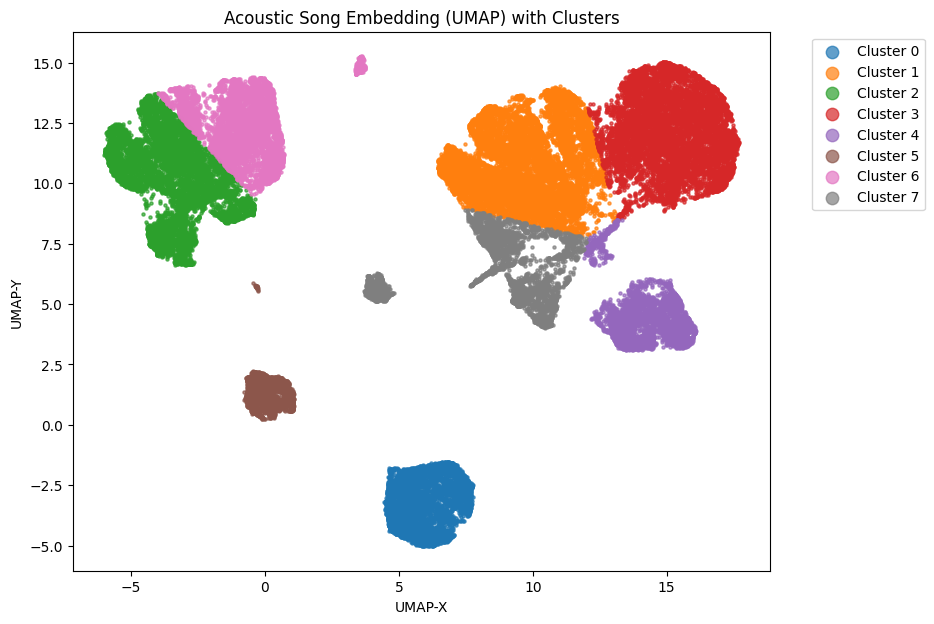
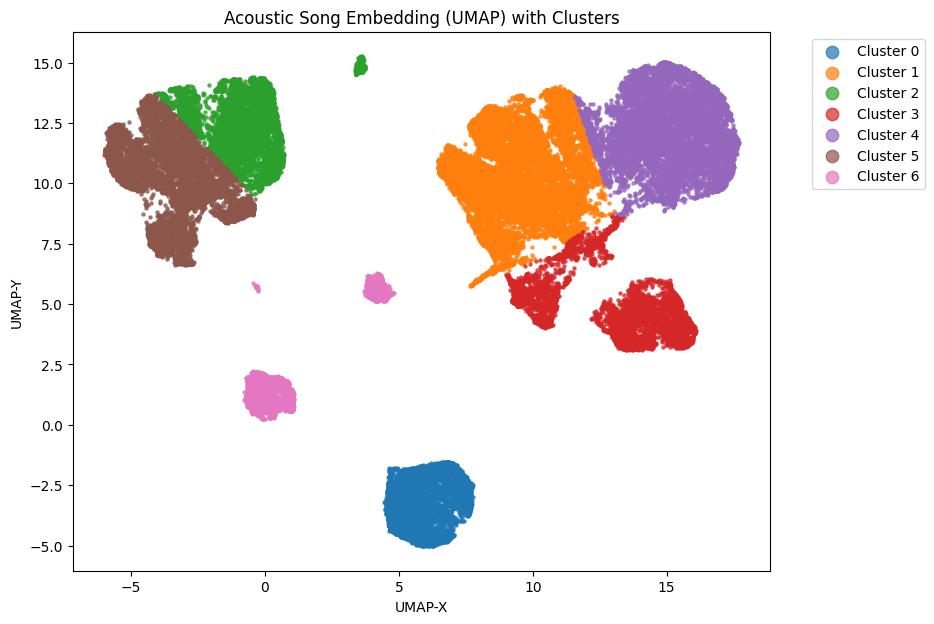
troubleshooted

diff --git a/msd_py3/feature_pipeline.py b/msd_py3/feature_pipeline.py
@@ -6,9 +6,9 @@ import numpy as np
 import pandas as pd
 from tqdm import tqdm
 from sklearn.preprocessing import StandardScaler
-import umap
 import hdbscan
 from ripser import ripser
+import umap
 from persim import bottleneck
 import warnings
 
@@ -17,9 +17,9 @@ warnings.filterwarnings("ignore", message="dgm.*non-finite death", module="persi
 
 # ---------- CONFIG ----------
 MSD_H5_DIR      = os.environ.get('MSD_H5_DIR', './MillionSongSubset')
-MSD_SUMMARY_FILE = os.environ.get('MSD_SUMMARY_FILE', None)
-TASTE_TRIPLETS  = os.environ.get('TASTE_TRIPLETS', '/path/to/train_triplets.txt')
-SAMPLE_SONGS    = int(os.environ.get('SAMPLE_SONGS', '10000'))
+MSD_SUMMARY_FILE = os.environ.get('MSD_SUMMARY_FILE', './msd_summary_file.h5')
+TASTE_TRIPLETS  = os.environ.get('TASTE_TRIPLETS', './train_triplets.txt')
+SAMPLE_SONGS    = int(os.environ.get('SAMPLE_SONGS', '1000'))
 TDA_SUBSAMPLE   = int(os.environ.get('TDA_SUBSAMPLE', '1200'))
 BN_MAX_POINTS   = int(os.environ.get('BN_MAX_POINTS', '800'))
 
@@ -255,40 +255,32 @@ def pairwise_dist(X):
     D = np.sqrt(D2, dtype=np.float32)
     return D
 
-def shortest_path_dist(n, edges, weight_col='w'):
-    """All-pairs shortest paths on undirected weighted graph; safe fallback."""
+def shortest_path_dist(n, edges):
     import heapq
-    if not edges:
-        D = np.ones((n, n), dtype=np.float32); np.fill_diagonal(D, 0.0); return D
 
+    # adjacency list
     adj = [[] for _ in range(n)]
     for a, b, w in edges:
-        d = 1.0 / max(1.0, float(w))
-        adj[a].append((b, d)); adj[b].append((a, d))
+        d = 1.0 / float(w)
+        adj[a].append((b, d))
+        adj[b].append((a, d))
 
-    INF = 1e12
-    D = np.full((n, n), INF, dtype=np.float32)
+    INF = np.inf
+    D = np.full((n, n), INF, dtype=np.float64)
+
     for s in range(n):
-        D[s,s] = 0.0
+        D[s, s] = 0.0
         pq = [(0.0, s)]
         while pq:
-            d,u = heapq.heappop(pq)
-            if d > D[s,u]:
+            d, u = heapq.heappop(pq)
+            if d > D[s, u]:
                 continue
-            for v,w in adj[u]:
+            for v, w in adj[u]:
                 nd = d + w
-                if nd < D[s,v]:
-                    D[s,v] = nd
+                if nd < D[s, v]:
+                    D[s, v] = nd
                     heapq.heappush(pq, (nd, v))
 
-    finite_mask = np.isfinite(D)
-    diag = np.eye(n, dtype=bool)
-    finite_off = D[finite_mask & ~diag]
-    if finite_off.size == 0:
-        D[:] = 1.0; np.fill_diagonal(D, 0.0)
-    else:
-        cap = float(finite_off.max())
-        D[~finite_mask] = cap
     return D
 
 def vietoris_rips_persistence(D):
@@ -359,7 +351,7 @@ def main():
         remap = {old:i for i, old in enumerate(keep_idx)}
         sub_edges = [(remap[a], remap[b], w) for a,b,w in idx_edges if a in kept and b in kept]
         if sub_edges:
-            D_be = shortest_path_dist(len(df_tda), sub_edges, 'w')
+            D_be = shortest_path_dist(len(df_tda), sub_edges)
             print(f"[INFO] Behavioral edges on TDA subset: {len(sub_edges)}")
         else:
             print("[INFO] No behavioral edges on the TDA subset; skipping D_be.")